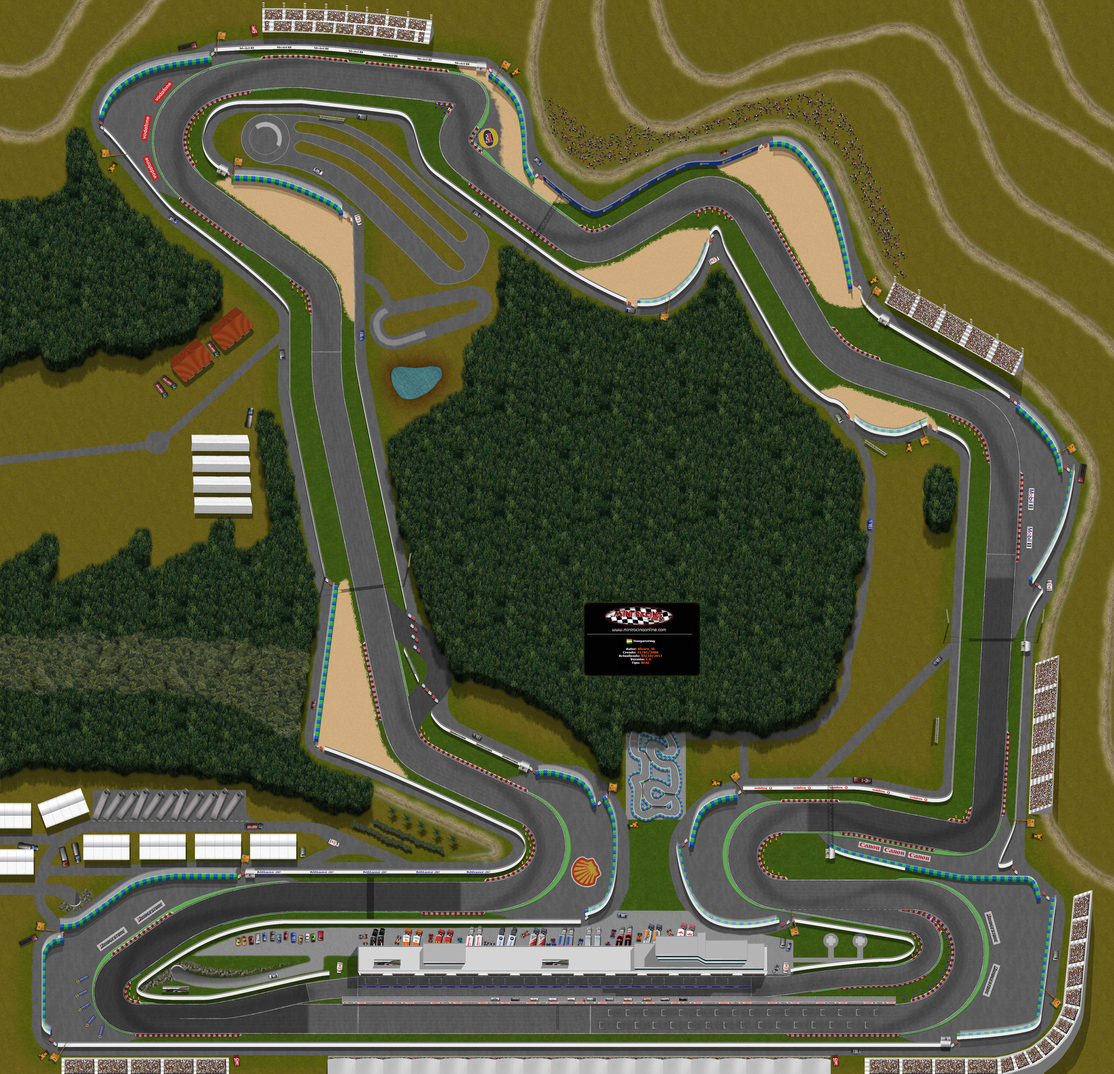
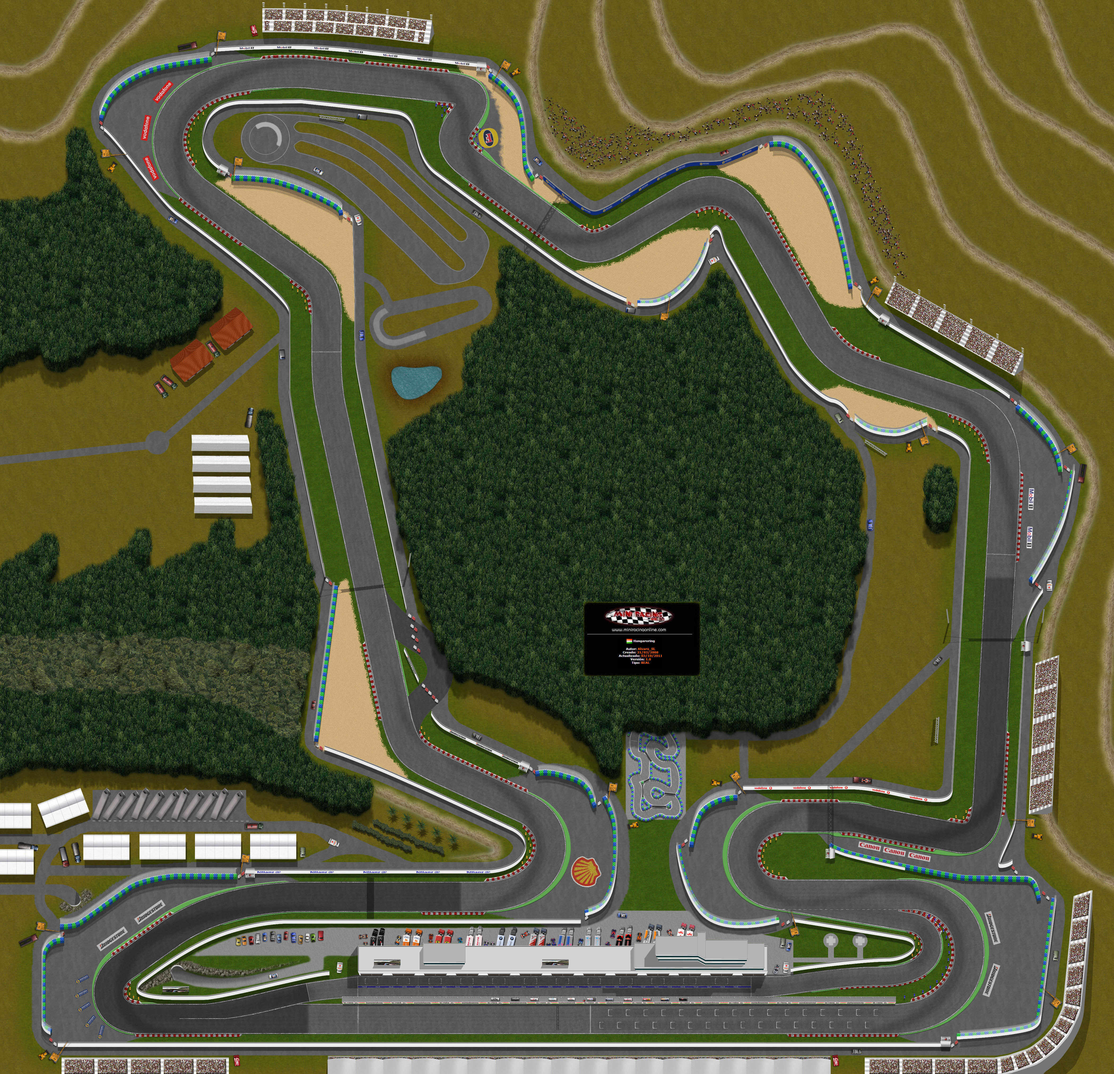
-Bgs Menores

diff --git a/f1mane/WebContent/html5/js/cpu.js b/f1mane/WebContent/html5/js/cpu.js
@@ -5,7 +5,7 @@ var circuito;
 var dadosJogo;
 var dadosParciais;
 var ativo = true;
-var delay = 1000;
+var delay = 100;
 var pilotosMap = new Map();
 var token;
 var idPilotoSelecionado;
@@ -62,7 +62,7 @@ function cpu_main() {
 		vdp_desenha();
 	} else {
 		console.log('cpu_main inativo');
-		delay = 1000;
+		delay = 100;
 	}
 }
 

diff --git a/f1mane/WebContent/html5/js/vdp.js b/f1mane/WebContent/html5/js/vdp.js
@@ -8,7 +8,7 @@ var ctxRotate = cvRotate.getContext('2d');
 var maneCanvas = document.getElementById('maneCanvas')
 var maneContext = maneCanvas.getContext('2d');
 var imgBg = new Image();
-var desenhaImagens = false;
+var desenhaImagens = true;
 var ptBg = {
 	x : 0,
 	y : 0
